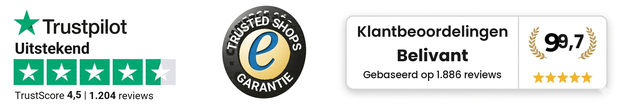
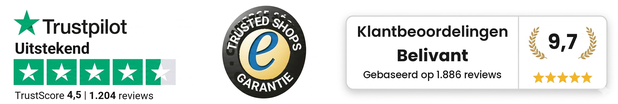
smilefix 08-27: trust-strip score retype fixed (9,7 — full digit span cleared) — sha F

Changed region(s): [[0.8608, 0.3173, 0.9531, 0.5192]]

diff --git a/smilefix-nlbe/lander.css b/smilefix-nlbe/lander.css
@@ -1,10 +1,10 @@
 
-@font-face{font-family:poppins;font-style:normal;font-weight:400;font-display:swap;src:url(https://cdn.jsdelivr.net/gh/h2sghf9zzd-ai/funnel-assets@000cd44/smilefix-nlbe/lander/8fe2ec7c823e.woff2)format('woff2');unicode-range:U+0900-097F,U+1CD0-1CF9,U+200C-200D,U+20A8,U+20B9,U+20F0,U+25CC,U+A830-A839,U+A8E0-A8FF,U+11B00-11B09}
-@font-face{font-family:poppins;font-style:normal;font-weight:400;font-display:swap;src:url(https://cdn.jsdelivr.net/gh/h2sghf9zzd-ai/funnel-assets@000cd44/smilefix-nlbe/lander/c9d614f41715.woff2)format('woff2');unicode-range:U+0100-02BA,U+02BD-02C5,U+02C7-02CC,U+02CE-02D7,U+02DD-02FF,U+0304,U+0308,U+0329,U+1D00-1DBF,U+1E00-1E9F,U+1EF2-1EFF,U+2020,U+20A0-20AB,U+20AD-20C0,U+2113,U+2C60-2C7F,U+A720-A7FF}
-@font-face{font-family:poppins;font-style:normal;font-weight:400;font-display:swap;src:url(https://cdn.jsdelivr.net/gh/h2sghf9zzd-ai/funnel-assets@000cd44/smilefix-nlbe/lander/e6a077c34deb.woff2)format('woff2');unicode-range:U+0000-00FF,U+0131,U+0152-0153,U+02BB-02BC,U+02C6,U+02DA,U+02DC,U+0304,U+0308,U+0329,U+2000-206F,U+20AC,U+2122,U+2191,U+2193,U+2212,U+2215,U+FEFF,U+FFFD}
-@font-face{font-family:poppins;font-style:normal;font-weight:700;font-display:swap;src:url(https://cdn.jsdelivr.net/gh/h2sghf9zzd-ai/funnel-assets@000cd44/smilefix-nlbe/lander/23090f00efe3.woff2)format('woff2');unicode-range:U+0900-097F,U+1CD0-1CF9,U+200C-200D,U+20A8,U+20B9,U+20F0,U+25CC,U+A830-A839,U+A8E0-A8FF,U+11B00-11B09}
-@font-face{font-family:poppins;font-style:normal;font-weight:700;font-display:swap;src:url(https://cdn.jsdelivr.net/gh/h2sghf9zzd-ai/funnel-assets@000cd44/smilefix-nlbe/lander/7199488410a2.woff2)format('woff2');unicode-range:U+0100-02BA,U+02BD-02C5,U+02C7-02CC,U+02CE-02D7,U+02DD-02FF,U+0304,U+0308,U+0329,U+1D00-1DBF,U+1E00-1E9F,U+1EF2-1EFF,U+2020,U+20A0-20AB,U+20AD-20C0,U+2113,U+2C60-2C7F,U+A720-A7FF}
-@font-face{font-family:poppins;font-style:normal;font-weight:700;font-display:swap;src:url(https://cdn.jsdelivr.net/gh/h2sghf9zzd-ai/funnel-assets@000cd44/smilefix-nlbe/lander/742b18be16f6.woff2)format('woff2');unicode-range:U+0000-00FF,U+0131,U+0152-0153,U+02BB-02BC,U+02C6,U+02DA,U+02DC,U+0304,U+0308,U+0329,U+2000-206F,U+20AC,U+2122,U+2191,U+2193,U+2212,U+2215,U+FEFF,U+FFFD}
+@font-face{font-family:poppins;font-style:normal;font-weight:400;font-display:swap;src:url(https://cdn.jsdelivr.net/gh/h2sghf9zzd-ai/funnel-assets@17dbbee/smilefix-nlbe/lander/8fe2ec7c823e.woff2)format('woff2');unicode-range:U+0900-097F,U+1CD0-1CF9,U+200C-200D,U+20A8,U+20B9,U+20F0,U+25CC,U+A830-A839,U+A8E0-A8FF,U+11B00-11B09}
+@font-face{font-family:poppins;font-style:normal;font-weight:400;font-display:swap;src:url(https://cdn.jsdelivr.net/gh/h2sghf9zzd-ai/funnel-assets@17dbbee/smilefix-nlbe/lander/c9d614f41715.woff2)format('woff2');unicode-range:U+0100-02BA,U+02BD-02C5,U+02C7-02CC,U+02CE-02D7,U+02DD-02FF,U+0304,U+0308,U+0329,U+1D00-1DBF,U+1E00-1E9F,U+1EF2-1EFF,U+2020,U+20A0-20AB,U+20AD-20C0,U+2113,U+2C60-2C7F,U+A720-A7FF}
+@font-face{font-family:poppins;font-style:normal;font-weight:400;font-display:swap;src:url(https://cdn.jsdelivr.net/gh/h2sghf9zzd-ai/funnel-assets@17dbbee/smilefix-nlbe/lander/e6a077c34deb.woff2)format('woff2');unicode-range:U+0000-00FF,U+0131,U+0152-0153,U+02BB-02BC,U+02C6,U+02DA,U+02DC,U+0304,U+0308,U+0329,U+2000-206F,U+20AC,U+2122,U+2191,U+2193,U+2212,U+2215,U+FEFF,U+FFFD}
+@font-face{font-family:poppins;font-style:normal;font-weight:700;font-display:swap;src:url(https://cdn.jsdelivr.net/gh/h2sghf9zzd-ai/funnel-assets@17dbbee/smilefix-nlbe/lander/23090f00efe3.woff2)format('woff2');unicode-range:U+0900-097F,U+1CD0-1CF9,U+200C-200D,U+20A8,U+20B9,U+20F0,U+25CC,U+A830-A839,U+A8E0-A8FF,U+11B00-11B09}
+@font-face{font-family:poppins;font-style:normal;font-weight:700;font-display:swap;src:url(https://cdn.jsdelivr.net/gh/h2sghf9zzd-ai/funnel-assets@17dbbee/smilefix-nlbe/lander/7199488410a2.woff2)format('woff2');unicode-range:U+0100-02BA,U+02BD-02C5,U+02C7-02CC,U+02CE-02D7,U+02DD-02FF,U+0304,U+0308,U+0329,U+1D00-1DBF,U+1E00-1E9F,U+1EF2-1EFF,U+2020,U+20A0-20AB,U+20AD-20C0,U+2113,U+2C60-2C7F,U+A720-A7FF}
+@font-face{font-family:poppins;font-style:normal;font-weight:700;font-display:swap;src:url(https://cdn.jsdelivr.net/gh/h2sghf9zzd-ai/funnel-assets@17dbbee/smilefix-nlbe/lander/742b18be16f6.woff2)format('woff2');unicode-range:U+0000-00FF,U+0131,U+0152-0153,U+02BB-02BC,U+02C6,U+02DA,U+02DC,U+0304,U+0308,U+0329,U+2000-206F,U+20AC,U+2122,U+2191,U+2193,U+2212,U+2215,U+FEFF,U+FFFD}
 @media (max-width: 768px) {
 :where(#smilefix-root) .your-slider-image-class {
     width: 100% !important;
@@ -3854,12 +3854,12 @@
 :where(#smilefix-root) .el-852791 .el-888014 .btn { display:inherit; }
 }
 :where(#smilefix-root) .el-852791 .el-888014 .btn { font-size:22px;text-align:center;border-top:0px solid ;border-left:0px solid ;border-right:0px solid ;border-bottom:0px solid ;border-radius:7px 7px 7px 7px;line-height:1;margin:10px 0px 10px 0px;padding:15px 30px 15px 30px;background-color:#1565c0;box-shadow:none; }
-@font-face { font-family: poppins; font-style: normal; font-weight: 400; font-display: swap; src: url("https://cdn.jsdelivr.net/gh/h2sghf9zzd-ai/funnel-assets@000cd44/smilefix-nlbe/lander/8fe2ec7c823e.woff2") format("woff2"); unicode-range: U+900-97F, U+1CD0-1CF9, U+200C-200D, U+20A8, U+20B9, U+20F0, U+25CC, U+A830-A839, U+A8E0-A8FF, U+11B00-11B09; }
-@font-face { font-family: poppins; font-style: normal; font-weight: 400; font-display: swap; src: url("https://cdn.jsdelivr.net/gh/h2sghf9zzd-ai/funnel-assets@000cd44/smilefix-nlbe/lander/c9d614f41715.woff2") format("woff2"); unicode-range: U+100-2BA, U+2BD-2C5, U+2C7-2CC, U+2CE-2D7, U+2DD-2FF, U+304, U+308, U+329, U+1D00-1DBF, U+1E00-1E9F, U+1EF2-1EFF, U+2020, U+20A0-20AB, U+20AD-20C0, U+2113, U+2C60-2C7F, U+A720-A7FF; }
-@font-face { font-family: poppins; font-style: normal; font-weight: 400; font-display: swap; src: url("https://cdn.jsdelivr.net/gh/h2sghf9zzd-ai/funnel-assets@000cd44/smilefix-nlbe/lander/e6a077c34deb.woff2") format("woff2"); unicode-range: U+0-FF, U+131, U+152-153, U+2BB-2BC, U+2C6, U+2DA, U+2DC, U+304, U+308, U+329, U+2000-206F, U+20AC, U+2122, U+2191, U+2193, U+2212, U+2215, U+FEFF, U+FFFD; }
-@font-face { font-family: poppins; font-style: normal; font-weight: 700; font-display: swap; src: url("https://cdn.jsdelivr.net/gh/h2sghf9zzd-ai/funnel-assets@000cd44/smilefix-nlbe/lander/23090f00efe3.woff2") format("woff2"); unicode-range: U+900-97F, U+1CD0-1CF9, U+200C-200D, U+20A8, U+20B9, U+20F0, U+25CC, U+A830-A839, U+A8E0-A8FF, U+11B00-11B09; }
-@font-face { font-family: poppins; font-style: normal; font-weight: 700; font-display: swap; src: url("https://cdn.jsdelivr.net/gh/h2sghf9zzd-ai/funnel-assets@000cd44/smilefix-nlbe/lander/7199488410a2.woff2") format("woff2"); unicode-range: U+100-2BA, U+2BD-2C5, U+2C7-2CC, U+2CE-2D7, U+2DD-2FF, U+304, U+308, U+329, U+1D00-1DBF, U+1E00-1E9F, U+1EF2-1EFF, U+2020, U+20A0-20AB, U+20AD-20C0, U+2113, U+2C60-2C7F, U+A720-A7FF; }
-@font-face { font-family: poppins; font-style: normal; font-weight: 700; font-display: swap; src: url("https://cdn.jsdelivr.net/gh/h2sghf9zzd-ai/funnel-assets@000cd44/smilefix-nlbe/lander/742b18be16f6.woff2") format("woff2"); unicode-range: U+0-FF, U+131, U+152-153, U+2BB-2BC, U+2C6, U+2DA, U+2DC, U+304, U+308, U+329, U+2000-206F, U+20AC, U+2122, U+2191, U+2193, U+2212, U+2215, U+FEFF, U+FFFD; }
+@font-face { font-family: poppins; font-style: normal; font-weight: 400; font-display: swap; src: url("https://cdn.jsdelivr.net/gh/h2sghf9zzd-ai/funnel-assets@17dbbee/smilefix-nlbe/lander/8fe2ec7c823e.woff2") format("woff2"); unicode-range: U+900-97F, U+1CD0-1CF9, U+200C-200D, U+20A8, U+20B9, U+20F0, U+25CC, U+A830-A839, U+A8E0-A8FF, U+11B00-11B09; }
+@font-face { font-family: poppins; font-style: normal; font-weight: 400; font-display: swap; src: url("https://cdn.jsdelivr.net/gh/h2sghf9zzd-ai/funnel-assets@17dbbee/smilefix-nlbe/lander/c9d614f41715.woff2") format("woff2"); unicode-range: U+100-2BA, U+2BD-2C5, U+2C7-2CC, U+2CE-2D7, U+2DD-2FF, U+304, U+308, U+329, U+1D00-1DBF, U+1E00-1E9F, U+1EF2-1EFF, U+2020, U+20A0-20AB, U+20AD-20C0, U+2113, U+2C60-2C7F, U+A720-A7FF; }
+@font-face { font-family: poppins; font-style: normal; font-weight: 400; font-display: swap; src: url("https://cdn.jsdelivr.net/gh/h2sghf9zzd-ai/funnel-assets@17dbbee/smilefix-nlbe/lander/e6a077c34deb.woff2") format("woff2"); unicode-range: U+0-FF, U+131, U+152-153, U+2BB-2BC, U+2C6, U+2DA, U+2DC, U+304, U+308, U+329, U+2000-206F, U+20AC, U+2122, U+2191, U+2193, U+2212, U+2215, U+FEFF, U+FFFD; }
+@font-face { font-family: poppins; font-style: normal; font-weight: 700; font-display: swap; src: url("https://cdn.jsdelivr.net/gh/h2sghf9zzd-ai/funnel-assets@17dbbee/smilefix-nlbe/lander/23090f00efe3.woff2") format("woff2"); unicode-range: U+900-97F, U+1CD0-1CF9, U+200C-200D, U+20A8, U+20B9, U+20F0, U+25CC, U+A830-A839, U+A8E0-A8FF, U+11B00-11B09; }
+@font-face { font-family: poppins; font-style: normal; font-weight: 700; font-display: swap; src: url("https://cdn.jsdelivr.net/gh/h2sghf9zzd-ai/funnel-assets@17dbbee/smilefix-nlbe/lander/7199488410a2.woff2") format("woff2"); unicode-range: U+100-2BA, U+2BD-2C5, U+2C7-2CC, U+2CE-2D7, U+2DD-2FF, U+304, U+308, U+329, U+1D00-1DBF, U+1E00-1E9F, U+1EF2-1EFF, U+2020, U+20A0-20AB, U+20AD-20C0, U+2113, U+2C60-2C7F, U+A720-A7FF; }
+@font-face { font-family: poppins; font-style: normal; font-weight: 700; font-display: swap; src: url("https://cdn.jsdelivr.net/gh/h2sghf9zzd-ai/funnel-assets@17dbbee/smilefix-nlbe/lander/742b18be16f6.woff2") format("woff2"); unicode-range: U+0-FF, U+131, U+152-153, U+2BB-2BC, U+2C6, U+2DA, U+2DC, U+304, U+308, U+329, U+2000-206F, U+20AC, U+2122, U+2191, U+2193, U+2212, U+2215, U+FEFF, U+FFFD; }
 :where(#smilefix-root) a { color-scheme: unset; forced-color-adjust: unset; math-depth: unset; position: unset; position-anchor: unset; text-size-adjust: unset; appearance: unset; color: unset; font: unset; font-palette: unset; font-synthesis: unset; position-area: unset; text-orientation: unset; text-rendering: unset; text-spacing-trim: unset; -webkit-font-smoothing: unset; -webkit-locale: unset; -webkit-text-orientation: unset; -webkit-writing-mode: unset; writing-mode: unset; zoom: unset; accent-color: unset; place-content: unset; place-items: unset; place-self: unset; alignment-baseline: unset; anchor-name: unset; anchor-scope: unset; animation-composition: unset; animation: unset; animation-trigger: unset; app-region: unset; aspect-ratio: unset; backdrop-filter: unset; backface-visibility: unset; background: unset; background-blend-mode: unset; baseline-shift: unset; baseline-source: unset; block-size: unset; border-block: unset; border: unset; border-radius: unset; border-collapse: unset; border-end-end-radius: unset; border-end-start-radius: unset; border-inline: unset; border-shape: unset; border-start-end-radius: unset; border-start-start-radius: unset; inset: unset; box-decoration-break: unset; box-shadow: unset; break-after: unset; break-before: unset; break-inside: unset; buffered-rendering: unset; caption-side: unset; caret-animation: unset; caret-color: unset; caret-shape: unset; clear: unset; clip: unset; clip-path: unset; clip-rule: unset; color-interpolation: unset; color-interpolation-filters: unset; color-rendering: unset; columns: unset; column-fill: unset; gap: unset; column-rule: unset; column-span: unset; contain: unset; contain-intrinsic-block-size: unset; contain-intrinsic-size: unset; contain-intrinsic-inline-size: unset; container: unset; content: unset; content-visibility: unset; corner-shape: unset; corner-block-end-shape: unset; corner-block-start-shape: unset; counter-increment: unset; counter-reset: unset; counter-set: unset; cx: unset; cy: unset; d: unset; display: unset; dominant-baseline: unset; dynamic-range-limit: unset; empty-cells: unset; field-sizing: unset; fill: unset; fill-opacity: unset; fill-rule: unset; filter: unset; flex: unset; flex-flow: unset; float: unset; flood-color: unset; flood-opacity: unset; grid: unset; grid-area: unset; height: unset; hyphenate-character: unset; hyphenate-limit-chars: unset; hyphens: unset; image-orientation: unset; image-rendering: unset; initial-letter: unset; inline-size: unset; inset-block: unset; inset-inline: unset; interactivity: unset; interest-delay: unset; interpolate-size: unset; isolation: unset; letter-spacing: unset; lighting-color: unset; line-break: unset; list-style: unset; margin-block: unset; margin: unset; margin-inline: unset; marker: unset; mask: unset; mask-type: unset; math-shift: unset; math-style: unset; max-block-size: unset; max-height: unset; max-inline-size: unset; max-width: unset; min-block-size: unset; min-height: unset; min-inline-size: unset; min-width: unset; mix-blend-mode: unset; object-fit: unset; object-position: unset; object-view-box: unset; offset: unset; opacity: unset; order: unset; orphans: unset; outline: unset; outline-offset: unset; overflow-anchor: unset; overflow-block: unset; overflow-clip-margin: unset; overflow-inline: unset; overflow-wrap: unset; overflow: unset; overlay: unset; overscroll-behavior-block: unset; overscroll-behavior-inline: unset; overscroll-behavior: unset; padding-block: unset; padding: unset; padding-inline: unset; page: unset; page-orientation: unset; paint-order: unset; perspective: unset; perspective-origin: unset; pointer-events: unset; position-try: unset; position-visibility: unset; print-color-adjust: unset; quotes: unset; r: unset; reading-flow: unset; reading-order: unset; resize: unset; rotate: unset; ruby-align: unset; ruby-position: unset; rx: unset; ry: unset; scale: unset; scroll-behavior: unset; scroll-initial-target: unset; scroll-margin-block: unset; scroll-margin: unset; scroll-margin-inline: unset; scroll-marker-group: unset; scroll-padding-block: unset; scroll-padding: unset; scroll-padding-inline: unset; scroll-snap-align: unset; scroll-snap-stop: unset; scroll-snap-type: unset; scroll-target-group: unset; scroll-timeline: unset; scrollbar-color: unset; scrollbar-gutter: unset; scrollbar-width: unset; shape-image-threshold: unset; shape-margin: unset; shape-outside: unset; shape-rendering: unset; size: unset; speak: unset; stop-color: unset; stop-opacity: unset; stroke: unset; stroke-dasharray: unset; stroke-dashoffset: unset; stroke-linecap: unset; stroke-linejoin: unset; stroke-miterlimit: unset; stroke-opacity: unset; stroke-width: unset; tab-size: unset; table-layout: unset; text-align: unset; text-align-last: unset; text-anchor: unset; text-autospace: unset; text-box: unset; text-combine-upright: unset; text-decoration: unset; text-decoration-skip-ink: unset; text-emphasis: unset; text-emphasis-position: unset; text-indent: unset; text-justify: unset; text-overflow: unset; text-shadow: unset; text-transform: unset; text-underline-offset: unset; text-underline-position: unset; text-wrap: unset; timeline-scope: unset; timeline-trigger: unset; touch-action: unset; transform: unset; transform-box: unset; transform-origin: unset; transform-style: unset; transition: unset; translate: unset; trigger-scope: unset; user-select: unset; vector-effect: unset; vertical-align: unset; view-timeline: unset; view-transition-class: unset; view-transition-group: unset; view-transition-name: unset; view-transition-scope: unset; visibility: unset; border-spacing: unset; -webkit-box-align: unset; -webkit-box-decoration-break: unset; -webkit-box-direction: unset; -webkit-box-flex: unset; -webkit-box-ordinal-group: unset; -webkit-box-orient: unset; -webkit-box-pack: unset; -webkit-box-reflect: unset; -webkit-line-break: unset; -webkit-line-clamp: unset; -webkit-mask-box-image: unset; -webkit-rtl-ordering: unset; -webkit-ruby-position: unset; -webkit-tap-highlight-color: unset; -webkit-text-combine: unset; -webkit-text-decorations-in-effect: unset; -webkit-text-fill-color: unset; -webkit-text-security: unset; -webkit-text-stroke: unset; -webkit-user-drag: unset; white-space-collapse: unset; widows: unset; width: unset; will-change: unset; word-break: unset; word-spacing: unset; x: unset; y: unset; z-index: unset; cursor: pointer; box-sizing: border-box; }
 :where(#smilefix-root) code { white-space: normal; }
 :where(#smilefix-root) span[data-type="icon"] { position: relative; vertical-align: middle; display: inline-flex; }

diff --git a/smilefix-se/lander.css b/smilefix-se/lander.css
@@ -1,10 +1,10 @@
 
-@font-face{font-family:poppins;font-style:normal;font-weight:400;font-display:swap;src:url(https://cdn.jsdelivr.net/gh/h2sghf9zzd-ai/funnel-assets@000cd44/smilefix-se/lander/8fe2ec7c823e.woff2)format('woff2');unicode-range:U+0900-097F,U+1CD0-1CF9,U+200C-200D,U+20A8,U+20B9,U+20F0,U+25CC,U+A830-A839,U+A8E0-A8FF,U+11B00-11B09}
-@font-face{font-family:poppins;font-style:normal;font-weight:400;font-display:swap;src:url(https://cdn.jsdelivr.net/gh/h2sghf9zzd-ai/funnel-assets@000cd44/smilefix-se/lander/c9d614f41715.woff2)format('woff2');unicode-range:U+0100-02BA,U+02BD-02C5,U+02C7-02CC,U+02CE-02D7,U+02DD-02FF,U+0304,U+0308,U+0329,U+1D00-1DBF,U+1E00-1E9F,U+1EF2-1EFF,U+2020,U+20A0-20AB,U+20AD-20C0,U+2113,U+2C60-2C7F,U+A720-A7FF}
-@font-face{font-family:poppins;font-style:normal;font-weight:400;font-display:swap;src:url(https://cdn.jsdelivr.net/gh/h2sghf9zzd-ai/funnel-assets@000cd44/smilefix-se/lander/e6a077c34deb.woff2)format('woff2');unicode-range:U+0000-00FF,U+0131,U+0152-0153,U+02BB-02BC,U+02C6,U+02DA,U+02DC,U+0304,U+0308,U+0329,U+2000-206F,U+20AC,U+2122,U+2191,U+2193,U+2212,U+2215,U+FEFF,U+FFFD}
-@font-face{font-family:poppins;font-style:normal;font-weight:700;font-display:swap;src:url(https://cdn.jsdelivr.net/gh/h2sghf9zzd-ai/funnel-assets@000cd44/smilefix-se/lander/23090f00efe3.woff2)format('woff2');unicode-range:U+0900-097F,U+1CD0-1CF9,U+200C-200D,U+20A8,U+20B9,U+20F0,U+25CC,U+A830-A839,U+A8E0-A8FF,U+11B00-11B09}
-@font-face{font-family:poppins;font-style:normal;font-weight:700;font-display:swap;src:url(https://cdn.jsdelivr.net/gh/h2sghf9zzd-ai/funnel-assets@000cd44/smilefix-se/lander/7199488410a2.woff2)format('woff2');unicode-range:U+0100-02BA,U+02BD-02C5,U+02C7-02CC,U+02CE-02D7,U+02DD-02FF,U+0304,U+0308,U+0329,U+1D00-1DBF,U+1E00-1E9F,U+1EF2-1EFF,U+2020,U+20A0-20AB,U+20AD-20C0,U+2113,U+2C60-2C7F,U+A720-A7FF}
-@font-face{font-family:poppins;font-style:normal;font-weight:700;font-display:swap;src:url(https://cdn.jsdelivr.net/gh/h2sghf9zzd-ai/funnel-assets@000cd44/smilefix-se/lander/742b18be16f6.woff2)format('woff2');unicode-range:U+0000-00FF,U+0131,U+0152-0153,U+02BB-02BC,U+02C6,U+02DA,U+02DC,U+0304,U+0308,U+0329,U+2000-206F,U+20AC,U+2122,U+2191,U+2193,U+2212,U+2215,U+FEFF,U+FFFD}
+@font-face{font-family:poppins;font-style:normal;font-weight:400;font-display:swap;src:url(https://cdn.jsdelivr.net/gh/h2sghf9zzd-ai/funnel-assets@17dbbee/smilefix-se/lander/8fe2ec7c823e.woff2)format('woff2');unicode-range:U+0900-097F,U+1CD0-1CF9,U+200C-200D,U+20A8,U+20B9,U+20F0,U+25CC,U+A830-A839,U+A8E0-A8FF,U+11B00-11B09}
+@font-face{font-family:poppins;font-style:normal;font-weight:400;font-display:swap;src:url(https://cdn.jsdelivr.net/gh/h2sghf9zzd-ai/funnel-assets@17dbbee/smilefix-se/lander/c9d614f41715.woff2)format('woff2');unicode-range:U+0100-02BA,U+02BD-02C5,U+02C7-02CC,U+02CE-02D7,U+02DD-02FF,U+0304,U+0308,U+0329,U+1D00-1DBF,U+1E00-1E9F,U+1EF2-1EFF,U+2020,U+20A0-20AB,U+20AD-20C0,U+2113,U+2C60-2C7F,U+A720-A7FF}
+@font-face{font-family:poppins;font-style:normal;font-weight:400;font-display:swap;src:url(https://cdn.jsdelivr.net/gh/h2sghf9zzd-ai/funnel-assets@17dbbee/smilefix-se/lander/e6a077c34deb.woff2)format('woff2');unicode-range:U+0000-00FF,U+0131,U+0152-0153,U+02BB-02BC,U+02C6,U+02DA,U+02DC,U+0304,U+0308,U+0329,U+2000-206F,U+20AC,U+2122,U+2191,U+2193,U+2212,U+2215,U+FEFF,U+FFFD}
+@font-face{font-family:poppins;font-style:normal;font-weight:700;font-display:swap;src:url(https://cdn.jsdelivr.net/gh/h2sghf9zzd-ai/funnel-assets@17dbbee/smilefix-se/lander/23090f00efe3.woff2)format('woff2');unicode-range:U+0900-097F,U+1CD0-1CF9,U+200C-200D,U+20A8,U+20B9,U+20F0,U+25CC,U+A830-A839,U+A8E0-A8FF,U+11B00-11B09}
+@font-face{font-family:poppins;font-style:normal;font-weight:700;font-display:swap;src:url(https://cdn.jsdelivr.net/gh/h2sghf9zzd-ai/funnel-assets@17dbbee/smilefix-se/lander/7199488410a2.woff2)format('woff2');unicode-range:U+0100-02BA,U+02BD-02C5,U+02C7-02CC,U+02CE-02D7,U+02DD-02FF,U+0304,U+0308,U+0329,U+1D00-1DBF,U+1E00-1E9F,U+1EF2-1EFF,U+2020,U+20A0-20AB,U+20AD-20C0,U+2113,U+2C60-2C7F,U+A720-A7FF}
+@font-face{font-family:poppins;font-style:normal;font-weight:700;font-display:swap;src:url(https://cdn.jsdelivr.net/gh/h2sghf9zzd-ai/funnel-assets@17dbbee/smilefix-se/lander/742b18be16f6.woff2)format('woff2');unicode-range:U+0000-00FF,U+0131,U+0152-0153,U+02BB-02BC,U+02C6,U+02DA,U+02DC,U+0304,U+0308,U+0329,U+2000-206F,U+20AC,U+2122,U+2191,U+2193,U+2212,U+2215,U+FEFF,U+FFFD}
 @media (max-width: 768px) {
 :where(#smilefix-root) .your-slider-image-class {
     width: 100% !important;
@@ -3854,12 +3854,12 @@
 :where(#smilefix-root) .el-852791 .el-888014 .btn { display:inherit; }
 }
 :where(#smilefix-root) .el-852791 .el-888014 .btn { font-size:22px;text-align:center;border-top:0px solid ;border-left:0px solid ;border-right:0px solid ;border-bottom:0px solid ;border-radius:7px 7px 7px 7px;line-height:1;margin:10px 0px 10px 0px;padding:15px 30px 15px 30px;background-color:#1565c0;box-shadow:none; }
-@font-face { font-family: poppins; font-style: normal; font-weight: 400; font-display: swap; src: url("https://cdn.jsdelivr.net/gh/h2sghf9zzd-ai/funnel-assets@000cd44/smilefix-se/lander/8fe2ec7c823e.woff2") format("woff2"); unicode-range: U+900-97F, U+1CD0-1CF9, U+200C-200D, U+20A8, U+20B9, U+20F0, U+25CC, U+A830-A839, U+A8E0-A8FF, U+11B00-11B09; }
-@font-face { font-family: poppins; font-style: normal; font-weight: 400; font-display: swap; src: url("https://cdn.jsdelivr.net/gh/h2sghf9zzd-ai/funnel-assets@000cd44/smilefix-se/lander/c9d614f41715.woff2") format("woff2"); unicode-range: U+100-2BA, U+2BD-2C5, U+2C7-2CC, U+2CE-2D7, U+2DD-2FF, U+304, U+308, U+329, U+1D00-1DBF, U+1E00-1E9F, U+1EF2-1EFF, U+2020, U+20A0-20AB, U+20AD-20C0, U+2113, U+2C60-2C7F, U+A720-A7FF; }
-@font-face { font-family: poppins; font-style: normal; font-weight: 400; font-display: swap; src: url("https://cdn.jsdelivr.net/gh/h2sghf9zzd-ai/funnel-assets@000cd44/smilefix-se/lander/e6a077c34deb.woff2") format("woff2"); unicode-range: U+0-FF, U+131, U+152-153, U+2BB-2BC, U+2C6, U+2DA, U+2DC, U+304, U+308, U+329, U+2000-206F, U+20AC, U+2122, U+2191, U+2193, U+2212, U+2215, U+FEFF, U+FFFD; }
-@font-face { font-family: poppins; font-style: normal; font-weight: 700; font-display: swap; src: url("https://cdn.jsdelivr.net/gh/h2sghf9zzd-ai/funnel-assets@000cd44/smilefix-se/lander/23090f00efe3.woff2") format("woff2"); unicode-range: U+900-97F, U+1CD0-1CF9, U+200C-200D, U+20A8, U+20B9, U+20F0, U+25CC, U+A830-A839, U+A8E0-A8FF, U+11B00-11B09; }
-@font-face { font-family: poppins; font-style: normal; font-weight: 700; font-display: swap; src: url("https://cdn.jsdelivr.net/gh/h2sghf9zzd-ai/funnel-assets@000cd44/smilefix-se/lander/7199488410a2.woff2") format("woff2"); unicode-range: U+100-2BA, U+2BD-2C5, U+2C7-2CC, U+2CE-2D7, U+2DD-2FF, U+304, U+308, U+329, U+1D00-1DBF, U+1E00-1E9F, U+1EF2-1EFF, U+2020, U+20A0-20AB, U+20AD-20C0, U+2113, U+2C60-2C7F, U+A720-A7FF; }
-@font-face { font-family: poppins; font-style: normal; font-weight: 700; font-display: swap; src: url("https://cdn.jsdelivr.net/gh/h2sghf9zzd-ai/funnel-assets@000cd44/smilefix-se/lander/742b18be16f6.woff2") format("woff2"); unicode-range: U+0-FF, U+131, U+152-153, U+2BB-2BC, U+2C6, U+2DA, U+2DC, U+304, U+308, U+329, U+2000-206F, U+20AC, U+2122, U+2191, U+2193, U+2212, U+2215, U+FEFF, U+FFFD; }
+@font-face { font-family: poppins; font-style: normal; font-weight: 400; font-display: swap; src: url("https://cdn.jsdelivr.net/gh/h2sghf9zzd-ai/funnel-assets@17dbbee/smilefix-se/lander/8fe2ec7c823e.woff2") format("woff2"); unicode-range: U+900-97F, U+1CD0-1CF9, U+200C-200D, U+20A8, U+20B9, U+20F0, U+25CC, U+A830-A839, U+A8E0-A8FF, U+11B00-11B09; }
+@font-face { font-family: poppins; font-style: normal; font-weight: 400; font-display: swap; src: url("https://cdn.jsdelivr.net/gh/h2sghf9zzd-ai/funnel-assets@17dbbee/smilefix-se/lander/c9d614f41715.woff2") format("woff2"); unicode-range: U+100-2BA, U+2BD-2C5, U+2C7-2CC, U+2CE-2D7, U+2DD-2FF, U+304, U+308, U+329, U+1D00-1DBF, U+1E00-1E9F, U+1EF2-1EFF, U+2020, U+20A0-20AB, U+20AD-20C0, U+2113, U+2C60-2C7F, U+A720-A7FF; }
+@font-face { font-family: poppins; font-style: normal; font-weight: 400; font-display: swap; src: url("https://cdn.jsdelivr.net/gh/h2sghf9zzd-ai/funnel-assets@17dbbee/smilefix-se/lander/e6a077c34deb.woff2") format("woff2"); unicode-range: U+0-FF, U+131, U+152-153, U+2BB-2BC, U+2C6, U+2DA, U+2DC, U+304, U+308, U+329, U+2000-206F, U+20AC, U+2122, U+2191, U+2193, U+2212, U+2215, U+FEFF, U+FFFD; }
+@font-face { font-family: poppins; font-style: normal; font-weight: 700; font-display: swap; src: url("https://cdn.jsdelivr.net/gh/h2sghf9zzd-ai/funnel-assets@17dbbee/smilefix-se/lander/23090f00efe3.woff2") format("woff2"); unicode-range: U+900-97F, U+1CD0-1CF9, U+200C-200D, U+20A8, U+20B9, U+20F0, U+25CC, U+A830-A839, U+A8E0-A8FF, U+11B00-11B09; }
+@font-face { font-family: poppins; font-style: normal; font-weight: 700; font-display: swap; src: url("https://cdn.jsdelivr.net/gh/h2sghf9zzd-ai/funnel-assets@17dbbee/smilefix-se/lander/7199488410a2.woff2") format("woff2"); unicode-range: U+100-2BA, U+2BD-2C5, U+2C7-2CC, U+2CE-2D7, U+2DD-2FF, U+304, U+308, U+329, U+1D00-1DBF, U+1E00-1E9F, U+1EF2-1EFF, U+2020, U+20A0-20AB, U+20AD-20C0, U+2113, U+2C60-2C7F, U+A720-A7FF; }
+@font-face { font-family: poppins; font-style: normal; font-weight: 700; font-display: swap; src: url("https://cdn.jsdelivr.net/gh/h2sghf9zzd-ai/funnel-assets@17dbbee/smilefix-se/lander/742b18be16f6.woff2") format("woff2"); unicode-range: U+0-FF, U+131, U+152-153, U+2BB-2BC, U+2C6, U+2DA, U+2DC, U+304, U+308, U+329, U+2000-206F, U+20AC, U+2122, U+2191, U+2193, U+2212, U+2215, U+FEFF, U+FFFD; }
 :where(#smilefix-root) a { color-scheme: unset; forced-color-adjust: unset; math-depth: unset; position: unset; position-anchor: unset; text-size-adjust: unset; appearance: unset; color: unset; font: unset; font-palette: unset; font-synthesis: unset; position-area: unset; text-orientation: unset; text-rendering: unset; text-spacing-trim: unset; -webkit-font-smoothing: unset; -webkit-locale: unset; -webkit-text-orientation: unset; -webkit-writing-mode: unset; writing-mode: unset; zoom: unset; accent-color: unset; place-content: unset; place-items: unset; place-self: unset; alignment-baseline: unset; anchor-name: unset; anchor-scope: unset; animation-composition: unset; animation: unset; animation-trigger: unset; app-region: unset; aspect-ratio: unset; backdrop-filter: unset; backface-visibility: unset; background: unset; background-blend-mode: unset; baseline-shift: unset; baseline-source: unset; block-size: unset; border-block: unset; border: unset; border-radius: unset; border-collapse: unset; border-end-end-radius: unset; border-end-start-radius: unset; border-inline: unset; border-shape: unset; border-start-end-radius: unset; border-start-start-radius: unset; inset: unset; box-decoration-break: unset; box-shadow: unset; break-after: unset; break-before: unset; break-inside: unset; buffered-rendering: unset; caption-side: unset; caret-animation: unset; caret-color: unset; caret-shape: unset; clear: unset; clip: unset; clip-path: unset; clip-rule: unset; color-interpolation: unset; color-interpolation-filters: unset; color-rendering: unset; columns: unset; column-fill: unset; gap: unset; column-rule: unset; column-span: unset; contain: unset; contain-intrinsic-block-size: unset; contain-intrinsic-size: unset; contain-intrinsic-inline-size: unset; container: unset; content: unset; content-visibility: unset; corner-shape: unset; corner-block-end-shape: unset; corner-block-start-shape: unset; counter-increment: unset; counter-reset: unset; counter-set: unset; cx: unset; cy: unset; d: unset; display: unset; dominant-baseline: unset; dynamic-range-limit: unset; empty-cells: unset; field-sizing: unset; fill: unset; fill-opacity: unset; fill-rule: unset; filter: unset; flex: unset; flex-flow: unset; float: unset; flood-color: unset; flood-opacity: unset; grid: unset; grid-area: unset; height: unset; hyphenate-character: unset; hyphenate-limit-chars: unset; hyphens: unset; image-orientation: unset; image-rendering: unset; initial-letter: unset; inline-size: unset; inset-block: unset; inset-inline: unset; interactivity: unset; interest-delay: unset; interpolate-size: unset; isolation: unset; letter-spacing: unset; lighting-color: unset; line-break: unset; list-style: unset; margin-block: unset; margin: unset; margin-inline: unset; marker: unset; mask: unset; mask-type: unset; math-shift: unset; math-style: unset; max-block-size: unset; max-height: unset; max-inline-size: unset; max-width: unset; min-block-size: unset; min-height: unset; min-inline-size: unset; min-width: unset; mix-blend-mode: unset; object-fit: unset; object-position: unset; object-view-box: unset; offset: unset; opacity: unset; order: unset; orphans: unset; outline: unset; outline-offset: unset; overflow-anchor: unset; overflow-block: unset; overflow-clip-margin: unset; overflow-inline: unset; overflow-wrap: unset; overflow: unset; overlay: unset; overscroll-behavior-block: unset; overscroll-behavior-inline: unset; overscroll-behavior: unset; padding-block: unset; padding: unset; padding-inline: unset; page: unset; page-orientation: unset; paint-order: unset; perspective: unset; perspective-origin: unset; pointer-events: unset; position-try: unset; position-visibility: unset; print-color-adjust: unset; quotes: unset; r: unset; reading-flow: unset; reading-order: unset; resize: unset; rotate: unset; ruby-align: unset; ruby-position: unset; rx: unset; ry: unset; scale: unset; scroll-behavior: unset; scroll-initial-target: unset; scroll-margin-block: unset; scroll-margin: unset; scroll-margin-inline: unset; scroll-marker-group: unset; scroll-padding-block: unset; scroll-padding: unset; scroll-padding-inline: unset; scroll-snap-align: unset; scroll-snap-stop: unset; scroll-snap-type: unset; scroll-target-group: unset; scroll-timeline: unset; scrollbar-color: unset; scrollbar-gutter: unset; scrollbar-width: unset; shape-image-threshold: unset; shape-margin: unset; shape-outside: unset; shape-rendering: unset; size: unset; speak: unset; stop-color: unset; stop-opacity: unset; stroke: unset; stroke-dasharray: unset; stroke-dashoffset: unset; stroke-linecap: unset; stroke-linejoin: unset; stroke-miterlimit: unset; stroke-opacity: unset; stroke-width: unset; tab-size: unset; table-layout: unset; text-align: unset; text-align-last: unset; text-anchor: unset; text-autospace: unset; text-box: unset; text-combine-upright: unset; text-decoration: unset; text-decoration-skip-ink: unset; text-emphasis: unset; text-emphasis-position: unset; text-indent: unset; text-justify: unset; text-overflow: unset; text-shadow: unset; text-transform: unset; text-underline-offset: unset; text-underline-position: unset; text-wrap: unset; timeline-scope: unset; timeline-trigger: unset; touch-action: unset; transform: unset; transform-box: unset; transform-origin: unset; transform-style: unset; transition: unset; translate: unset; trigger-scope: unset; user-select: unset; vector-effect: unset; vertical-align: unset; view-timeline: unset; view-transition-class: unset; view-transition-group: unset; view-transition-name: unset; view-transition-scope: unset; visibility: unset; border-spacing: unset; -webkit-box-align: unset; -webkit-box-decoration-break: unset; -webkit-box-direction: unset; -webkit-box-flex: unset; -webkit-box-ordinal-group: unset; -webkit-box-orient: unset; -webkit-box-pack: unset; -webkit-box-reflect: unset; -webkit-line-break: unset; -webkit-line-clamp: unset; -webkit-mask-box-image: unset; -webkit-rtl-ordering: unset; -webkit-ruby-position: unset; -webkit-tap-highlight-color: unset; -webkit-text-combine: unset; -webkit-text-decorations-in-effect: unset; -webkit-text-fill-color: unset; -webkit-text-security: unset; -webkit-text-stroke: unset; -webkit-user-drag: unset; white-space-collapse: unset; widows: unset; width: unset; will-change: unset; word-break: unset; word-spacing: unset; x: unset; y: unset; z-index: unset; cursor: pointer; box-sizing: border-box; }
 :where(#smilefix-root) code { white-space: normal; }
 :where(#smilefix-root) span[data-type="icon"] { position: relative; vertical-align: middle; display: inline-flex; }
